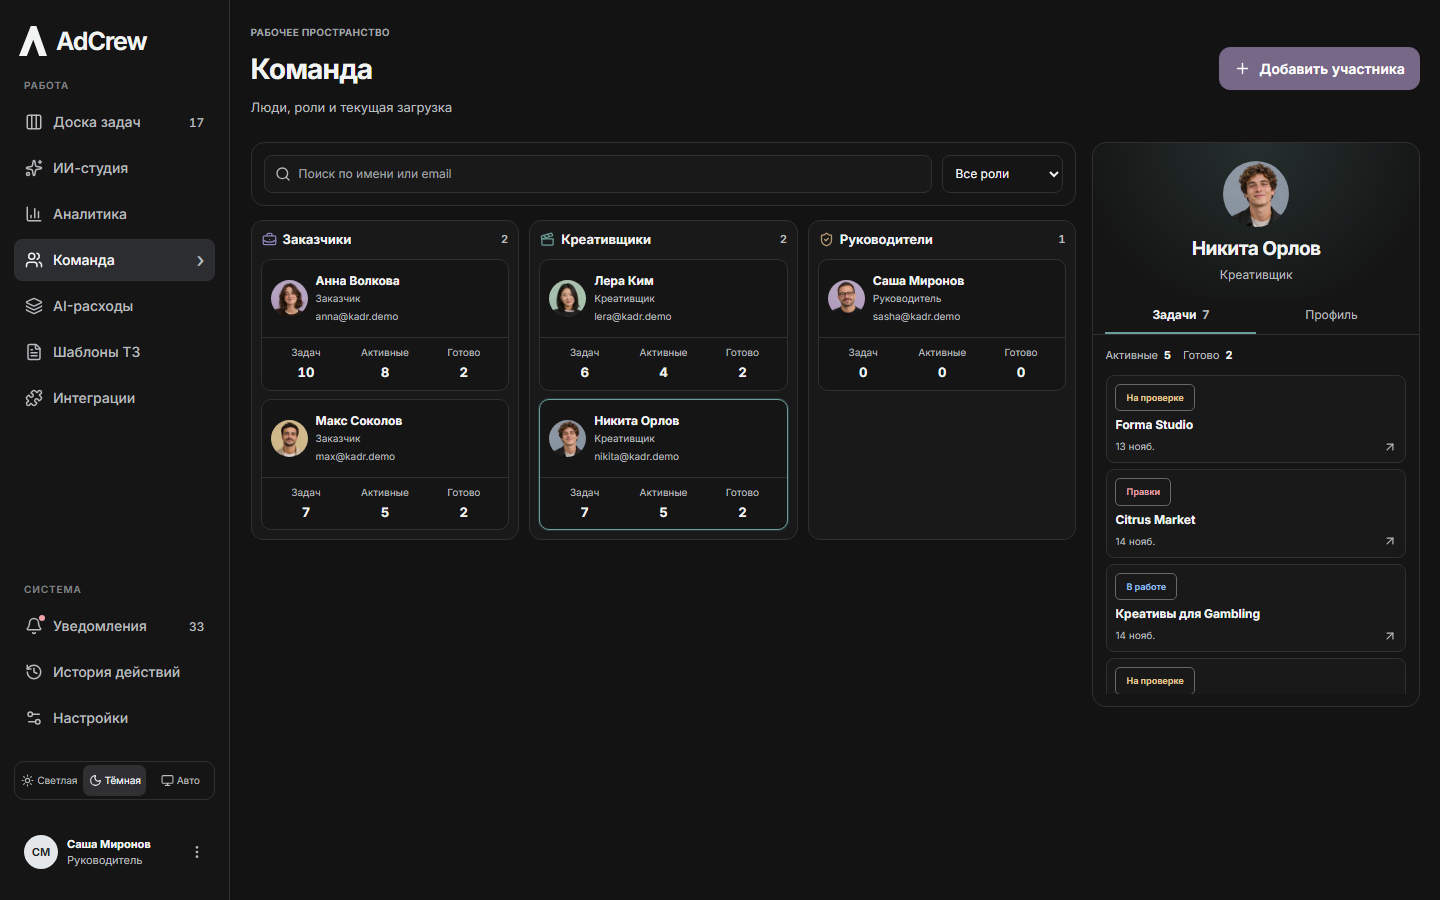
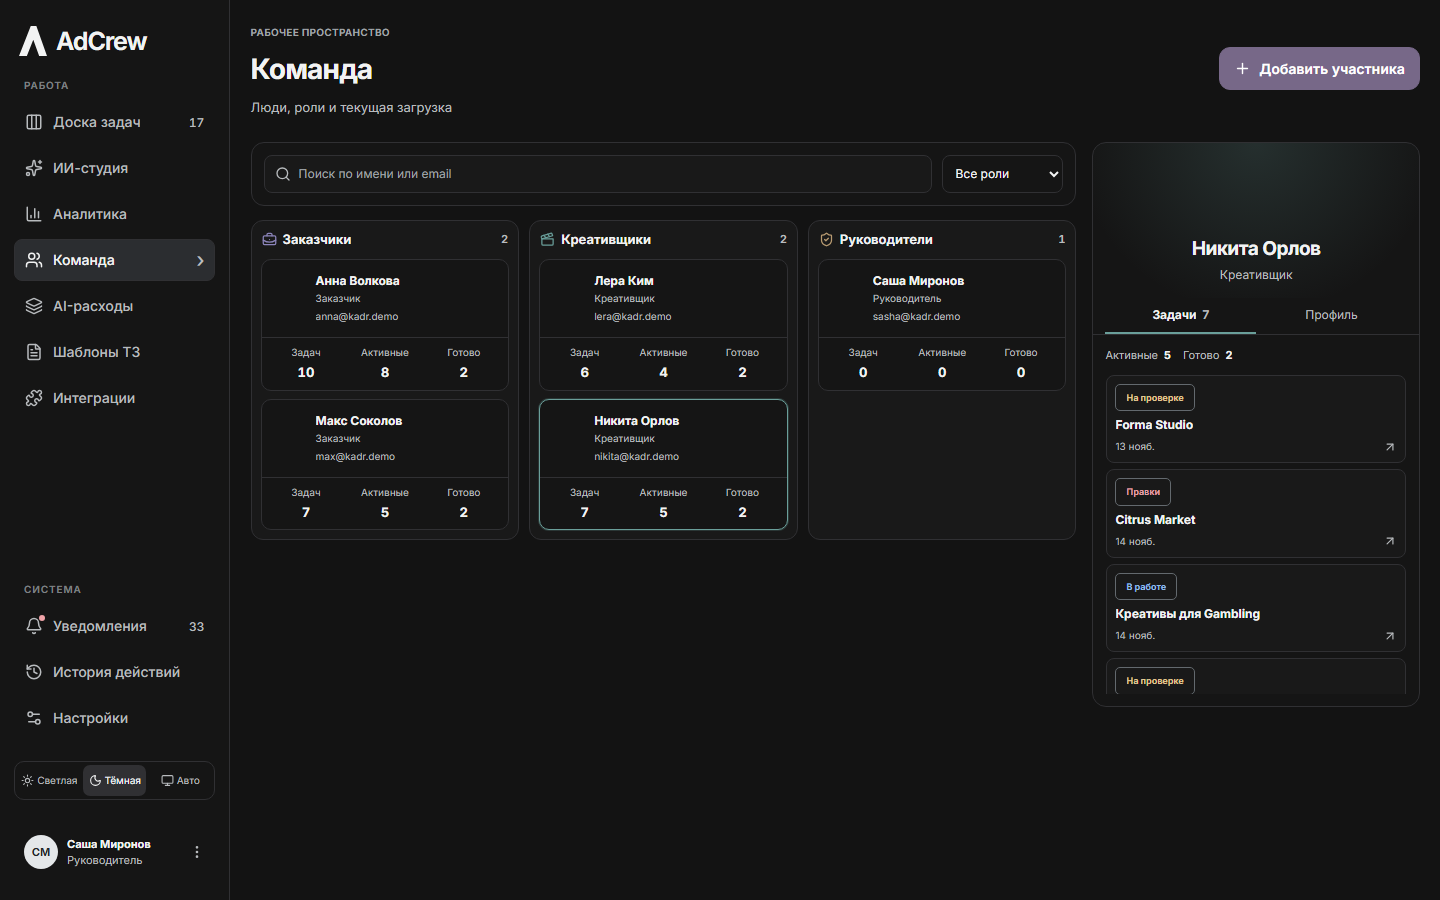
Update README for team, analytics and integrations

diff --git a/README.md b/README.md
@@ -38,7 +38,9 @@ AdCrew объединяет заказчиков, креативщиков и р
 | **Уведомления и история** | Упоминания и обновления с переходом к задаче, журнал изменений |
 | **ИИ-студия** | Открытие из взятой задачи, черновик запроса по брифу, редактор изображений и экспорт PNG |
 | **AI-расходы** | Учёт кредитов по сервисам, исполнителям и каждому раунду работы |
-| **Аналитика** | Загрузка команды, время производства и проверки, открытые и закрытые просрочки |
+| **Аналитика** | Сводка по периоду, графики загрузки и статусов, сроки и качество приёмки |
+| **Команда** | Карточки по ролям, поиск по имени и почте, задачи и профиль участника |
+| **Интеграции** | Каталог запланированных подключений с поиском и фильтрацией по категориям |
 | **Удобство** | Две темы, адаптивный интерфейс, сохранение фильтров, клавиатурная навигация и плавные панели |
 
 [Концепция продукта, структура, UX и предложения по развитию](docs/product-concept.md).
@@ -63,17 +65,25 @@ AdCrew объединяет заказчиков, креативщиков и р
 
 Черновик запроса можно скопировать для внешнего ИИ-сервиса. Для генерации внутри студии потребуется подключить провайдера.
 
-Telegram, Google Drive и Slack показаны в разделе «Интеграции» как запланированные подключения.
-
 ![Редактор креатива, открытый из задачи Forma Studio](.github/images/studio-dark.png)
 
 ## Команда
 
-![Карточки участников и статистика выбранного креативщика](.github/images/team-dark.png)
+Участники сгруппированы по ролям. На карточке видны количество задач, активные и завершённые. По нажатию справа открывается профиль со списком задач. У пяти демопрофилей есть портреты, у новых участников отображаются инициалы.
 
-## Аналитика в светлой теме
+![Команда AdCrew и задачи выбранного участника](.github/images/team-dark.png)
+
+## Аналитика
+
+Выберите даты, чтобы посмотреть число созданных и завершённых задач, средний цикл и качество приёмки. Графики загрузки и статусов показывают текущее состояние задач с исполнителем. В таблице просрочек можно открыть связанную задачу. Учёт AI-кредитов доступен по сервисам и исполнителям.
 
 ![Показатели производства, графики загрузки и статусов, просрочки и качество](.github/images/analytics-light.png)
+
+## Интеграции
+
+В каталоге можно искать сервисы, переключать категории и открывать карточку с подробностями. Telegram, Google Drive и Slack отмечены статусом «В планах».
+
+![Каталог интеграций AdCrew в светлой теме](.github/images/integrations-light.png)
 
 ## Локальный запуск
 
